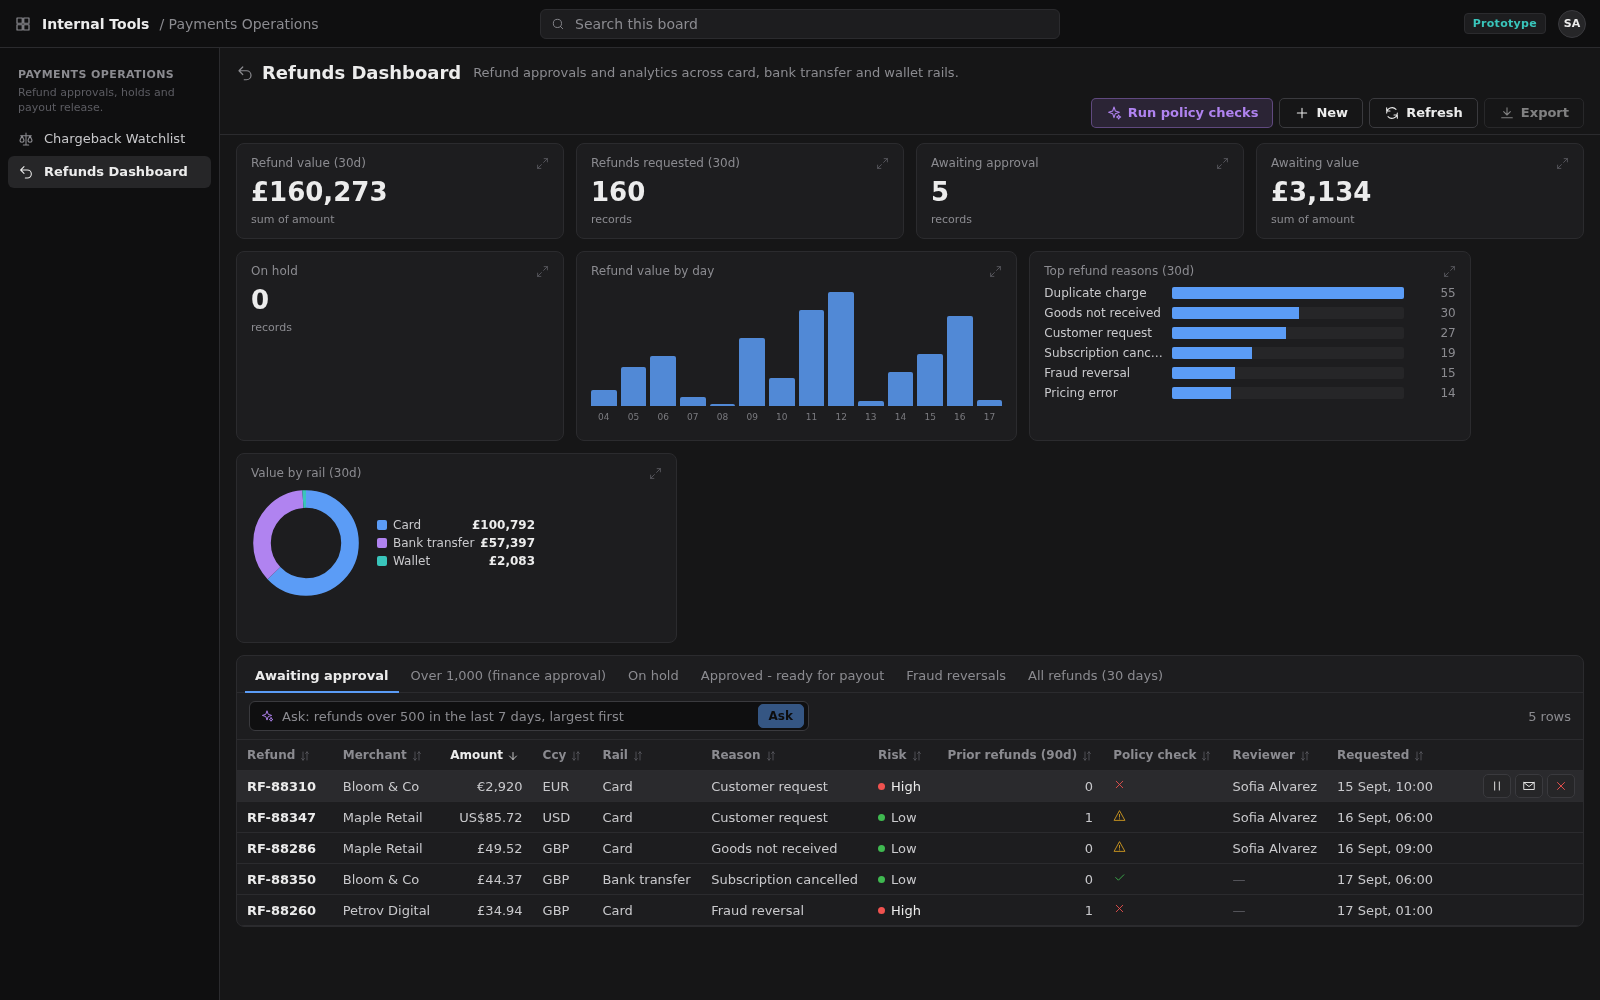
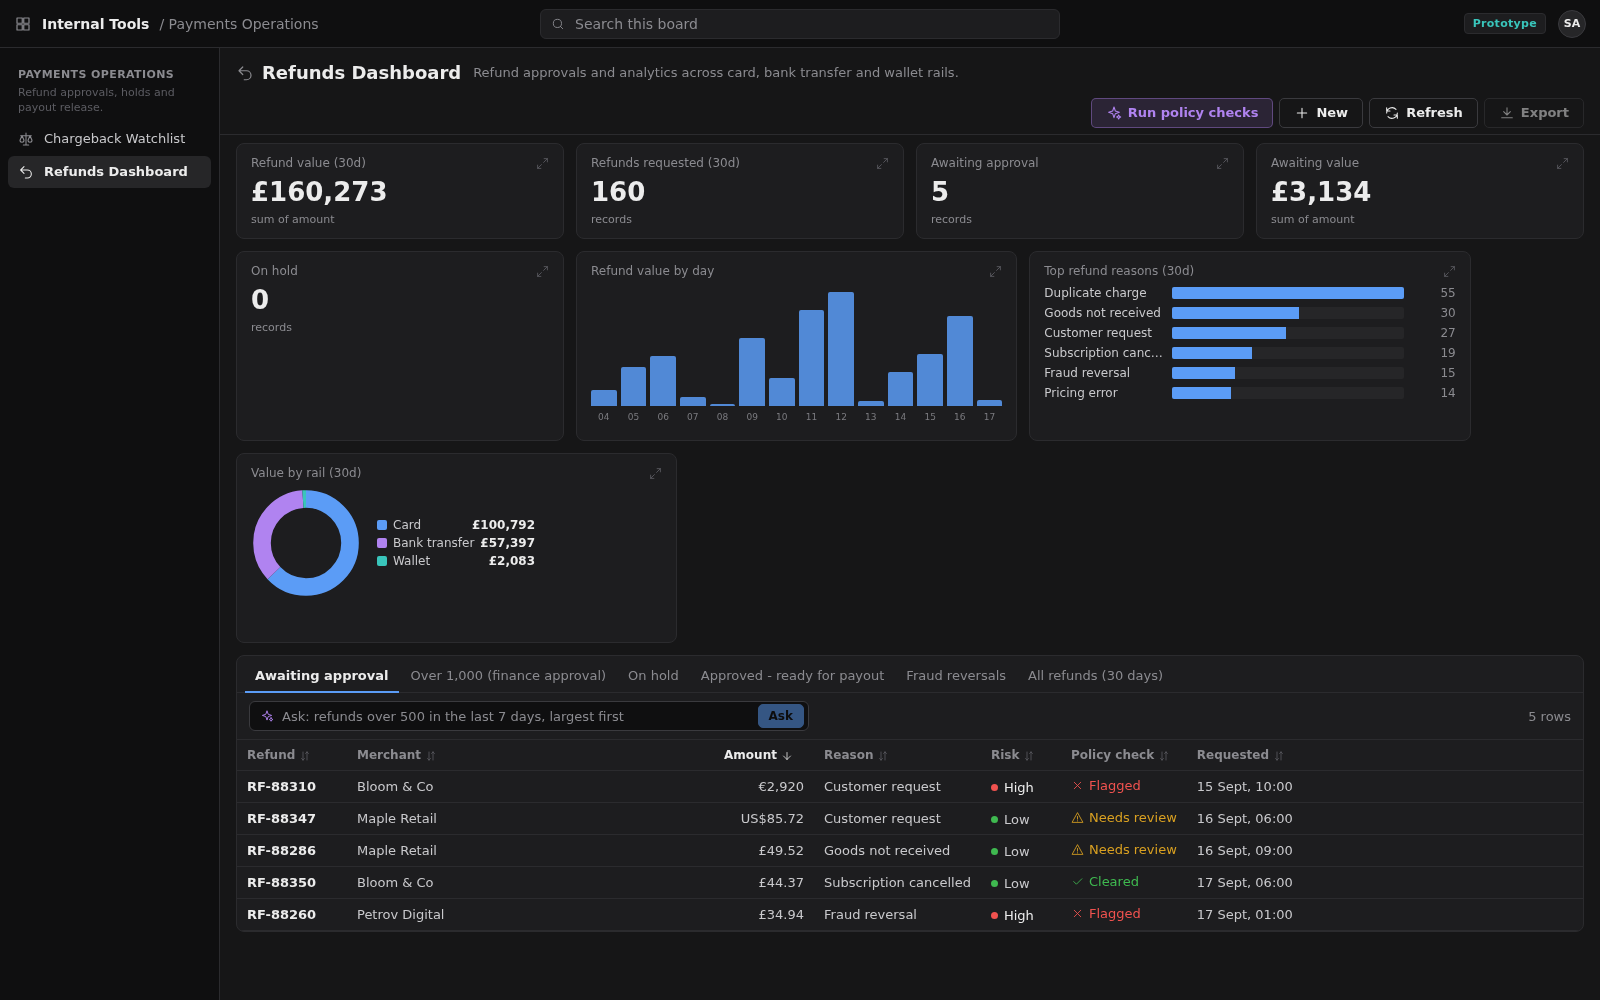
Leaner grids: drop columns the record pane already shows, move actions into the pane
Row quick-action buttons are gone; actions live only at the top of the detail pane.
Each view keeps the triage essentials (id, who, amount/score, risk, policy check, status,
due) and drops currency (already in the amount), rail, prior refunds, reviewer, sanctions
/docs flags, change-request id and last-changed — all visible in the pane. Policy check
shows its verdict word again next to the icon.

diff --git a/web/src/App.tsx b/web/src/App.tsx
@@ -193,8 +193,6 @@ export default function App() {
     } catch (e) { toast((e as Error).message, true) }
   }
 
-  const quickActions = useMemo(() => tool ? tool.actions.filter(a => a.allowed) : [], [tool])
-
   // Keyboard: ↑/↓ move through the queue, Enter opens the record, Esc closes the pane.
   useEffect(() => {
     const onKey = (e: KeyboardEvent) => {
@@ -383,24 +381,11 @@ export default function App() {
                         </th>
                       )
                     })}
-                    {quickActions.length > 0 && <th className="row-acts" title="Quick actions — hover a row, or open it for the full record" />}
                   </tr></thead>
                   <tbody>
                     {shown.map(r => (
                       <tr key={r.id} className={`row ${sel?.id === r.id ? 'sel' : ''}`} onClick={() => { setSel(r); setPaneOpen(true) }}>
                         {columns.map(f => <td key={f.name} className={isNumeric(f) ? 'num' : ''}><Cell f={f} r={r} isTitle={f.name === tool?.title_field} /></td>)}
-                        {quickActions.length > 0 && (
-                          <td className="row-acts" onClick={e => e.stopPropagation()}>
-                            <span className="acts">
-                              {quickActions.filter(a => actionEnabled(a, r)).map(a => (
-                                <button key={a.id} className={`iconbtn ${a.destructive ? 'danger' : /approve|resolve|clear|resume|pay|enable/.test(a.id) ? 'ok' : ''}`}
-                                  title={`${a.label}${a.requires_comment ? ' (comment required)' : ''}`} onClick={() => { setSel(r); startAction(a, r) }}>
-                                  <Icon name={actionIcon(a.id, a.icon, a.destructive)} size={14} />
-                                </button>
-                              ))}
-                            </span>
-                          </td>
-                        )}
                       </tr>
                     ))}
                   </tbody>

diff --git a/web/src/index.css b/web/src/index.css
@@ -180,17 +180,9 @@ td .link { color: var(--text); font-weight: 600; }
 .dotted.green .dot { background: var(--green); } .dotted.amber .dot { background: var(--amber); } .dotted.red .dot { background: var(--red); }
 .dotted.blue .dot { background: var(--blue); } .dotted.purple .dot { background: var(--purple); }
 .dotted.red { color: var(--text); }
-.verdict { display: inline-flex; }
+.verdict { display: inline-flex; align-items: center; gap: 5px; }
 .verdict.green { color: var(--green); } .verdict.amber { color: var(--amber); } .verdict.red { color: var(--red); }
 .purple { color: var(--purple); } .blue { color: var(--blue); }
-td.row-acts { text-align: right; padding: 3px 8px; width: 1%; }
-.row-acts .acts { display: inline-flex; gap: 4px; opacity: 0; transition: opacity .1s; }
-tr.row:hover .row-acts .acts, tr.row.sel .row-acts .acts, .row-acts .acts:focus-within { opacity: 1; }
-.row-acts .iconbtn { padding: 4px 6px; color: var(--text); background: var(--bg-3); border: 1px solid var(--line-strong); border-radius: 5px; }
-.row-acts .iconbtn:hover { border-color: var(--text-2); }
-.row-acts .iconbtn.ok { color: var(--green); } .row-acts .iconbtn.danger { color: var(--red); }
-.row-acts .iconbtn.ok:hover { background: rgba(63,185,80,.15); border-color: var(--green); }
-.row-acts .iconbtn.danger:hover { background: rgba(240,82,79,.15); border-color: var(--red); }
 .masked { color: var(--faint); letter-spacing: 1px; }
 .tgl { width: 34px; height: 18px; border-radius: 9px; display: inline-block; position: relative; vertical-align: -4px; background: var(--line-strong); }
 .tgl.on { background: var(--green); }

diff --git a/web/src/Cell.tsx b/web/src/Cell.tsx
@@ -21,7 +21,7 @@ const VERDICT_ICON: Record<string, { icon: string; cls: string }> = {
 function Choice({ f, v }: { f: FieldSpec; v: string }) {
   if (f.name === 'policy_verdict') {
     const m = VERDICT_ICON[v]
-    return m ? <span className={`verdict ${m.cls}`} title={`Policy check: ${v}`}><Icon name={m.icon} size={13} /></span> : <>{v}</>
+    return m ? <span className={`verdict ${m.cls}`} title={`Policy check: ${v}`}><Icon name={m.icon} size={13} />{v}</span> : <>{v}</>
   }
   const colour = STATUS_COLOURS[v] ?? ''
   if (PILL_FIELDS.has(f.name)) return <span className={`pill ${colour}`}>{v}</span>

diff --git a/README.md b/README.md
@@ -147,9 +147,10 @@ Optional: copy `.env.example` to `.env` and set `OPENAI_API_KEY` for live LLM ou
 `WEBHOOK_SIGNING_SECRET` for signed webhook payloads. In Devin Cloud these come from the
 Secrets store; nothing in the repo ever holds a value.
 
-**Working a queue fast:** hover a row for one-click actions (approve, reject, escalate, hold,
-enable, kill switch…) without opening it; ↑/↓ move through the queue, Enter opens the record,
-Esc closes it. Acting on an open record advances to the next one in the queue.
+**Working a queue fast:** rows show only what you need to triage; open a record for the full
+detail and its actions (approve, reject, escalate, hold, enable, kill switch…) at the top of the
+pane. ↑/↓ move through the queue, Enter opens the record, Esc closes it. Acting on an open
+record advances to the next one in the queue.
 
 Sign in as a demo identity — each sees only the boards its roles grant:
 
